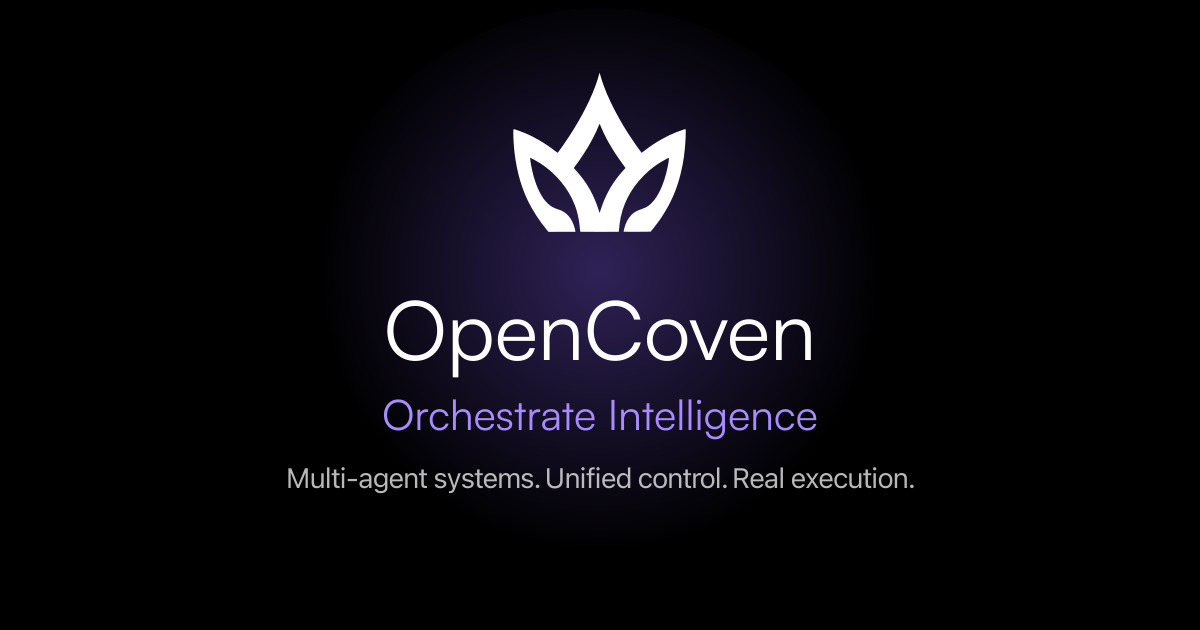
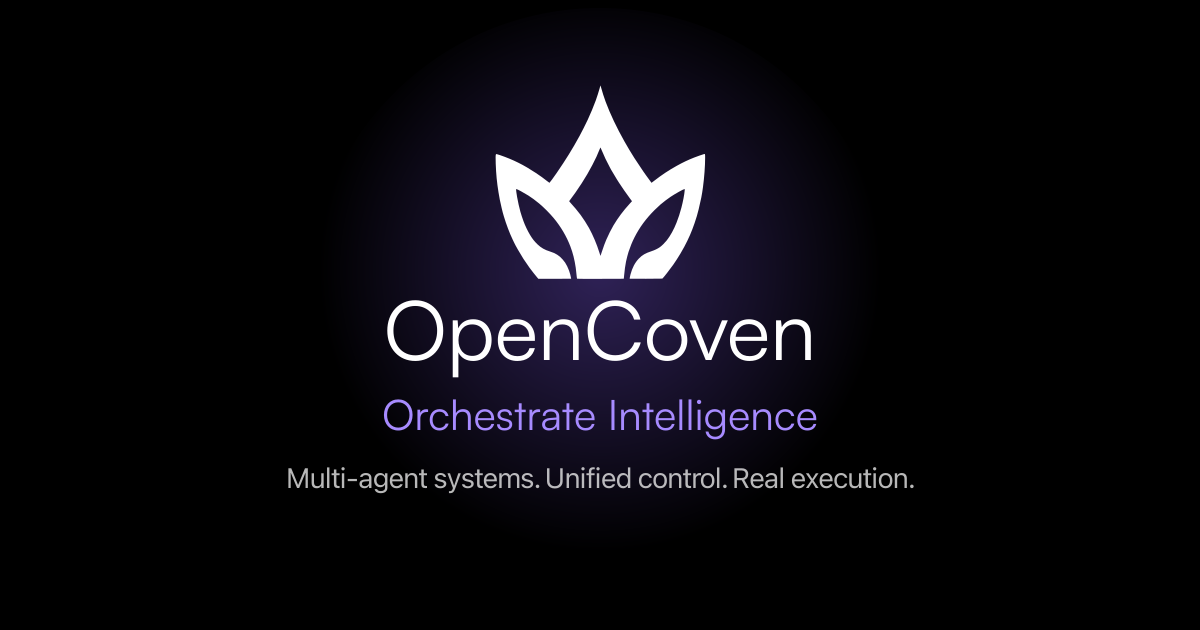
fix: preserve OpenCoven OG spacing

Changed region(s): [[0.4008, 0.1206, 0.5858, 0.4524]]

diff --git a/docs/superpowers/plans/2026-08-14-logo-refresh.md b/docs/superpowers/plans/2026-08-14-logo-refresh.md
@@ -430,7 +430,7 @@ const svg = `<svg xmlns="http://www.w3.org/2000/svg" viewBox="0 0 1200 630" role
   </defs>
   <rect width="1200" height="630" fill="#000000"/>
   <circle cx="600" cy="300" r="292" fill="url(#glow)"/>
-  <g transform="translate(456 18) scale(0.14)">
+  <g transform="translate(426 19) scale(0.1701)">
     <path fill="#FFFFFF" shape-rendering="geometricPrecision" fill-rule="evenodd" clip-rule="evenodd" d="${d}"/>
   </g>
   <text x="600" y="360" text-anchor="middle" fill="#FFFFFF" font-family="Satoshi, Inter, system-ui, sans-serif" font-size="82" font-weight="700">OpenCoven</text>
